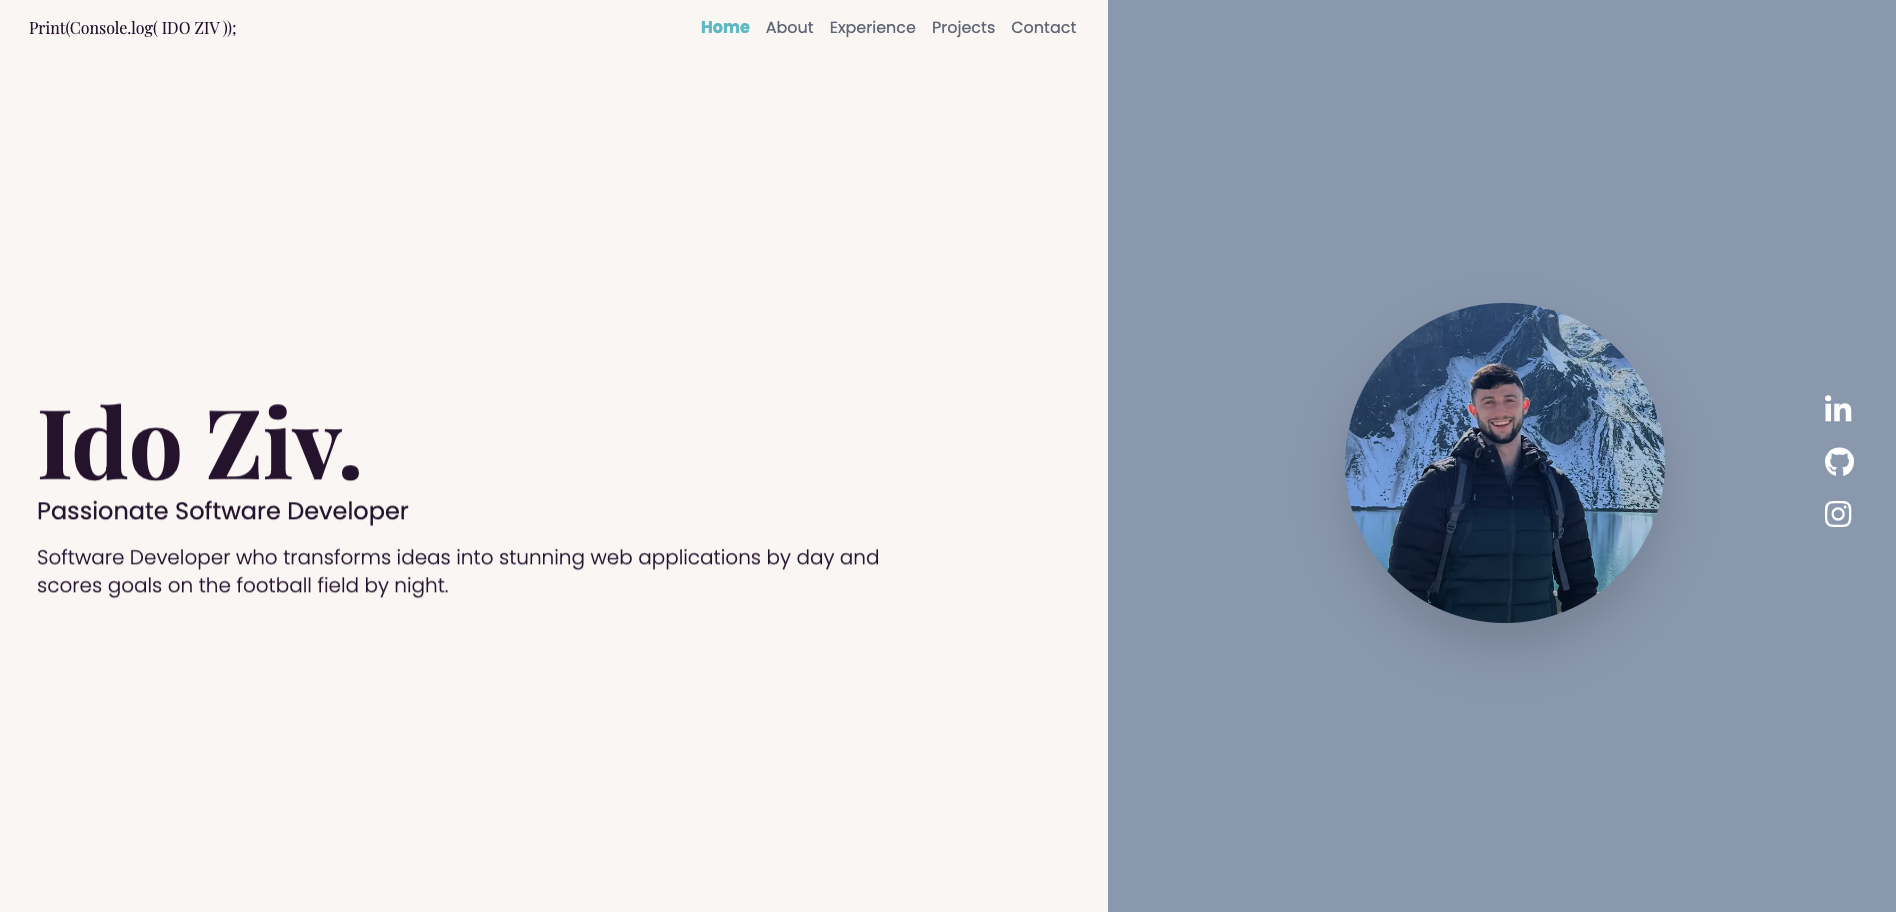
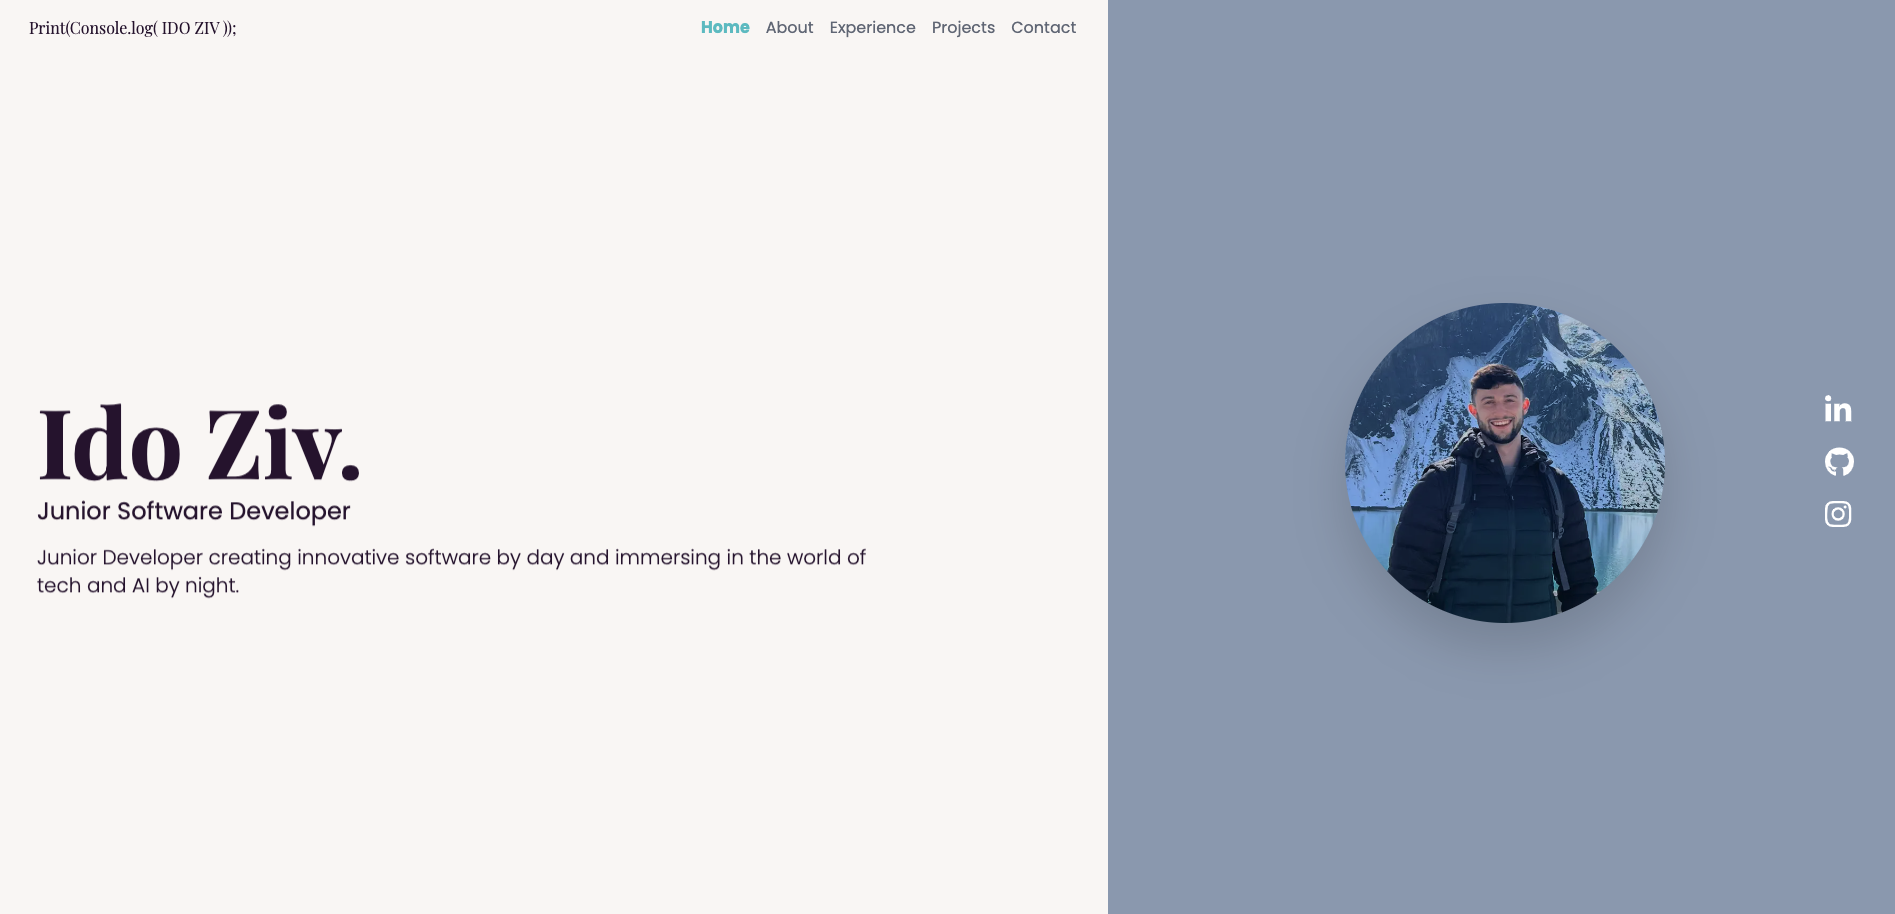
added my experiences and mail for the contact

diff --git a/utils/projects.ts b/utils/projects.ts
@@ -1,18 +1,17 @@
 export const projects = [
   {
     id: "1",
-    title: "Ligat Haal X, Interactive Grid Game",
+    title: "AOT Website",
     description:
-      "Developed a dynamic web app displaying an interactive grid of football team logos, with a player search functionality using Next.js and TailwindCSS. Integrated Prisma ORM with Azure SQL Server for database management and deployed on Vercel. Implemented server-side rendering, API routes, and cron jobs for weekly data cache updates",
+      "Took the initiative to develop and implement an interactive website (Frontend and backend) assisting the company's security team. The website facilitated streamlined work arrangement submissions, provided a platform for forums, and fulfilled various workrelated requirements.",
     tags: [
-      "Next.js",
-      "TailwindCSS",
-      "Azure Functions",
-      "Azure SQL Server",
-      "Vercel",
+      "NodeJs",
+      "JavaScript",
+      "MongoDB",
+      "HTML",
+      "CSS",
+      "Heroku",
     ],
-    url: "/projects/1",
-    youtubeUrl: "https://www.ligathaalx.com/",
     projectPage: {
       title: "Ligat Haal X, Interactive Grid",
       description:
@@ -60,40 +59,34 @@ export const projects = [
   },
   {
     id: 2,
-    title: "this website",
+    title: "Vector Classifier",
     description:
-      "Built a personal portfolio website using Next.js, Tailwind CSS, and TypeScript. Implemented SEO optimization and a responsive design",
-    tags: ["Next.js", "Tailwind CSS", "TypeScript"],
-    githubUrl: "https://github.com/yuvalysh0/portfolio",
+      "A project in C++ about vector classification using the KNN algorithm and a multithreading server-client connection.",
+    tags: ["C++", "KNN", "Algorithm"],
   },
 
   {
     id: 3,
-    title: "Startup Booster - Incharge Payment Processing System",
+    title: "Whatsapp Clone",
     description:
-      "Led the frontend development using React, integrating multiple payment methods like DTS and Multipass to enhance the payment experience.",
-    tags: ["React", "JavaScript", "NextJS"],
+      "Developed a website (MERN) and Android application for chat service like WhatsApp, using Client-Server",
+    tags: ["React", "JavaScript", "NodeJs", "SQL", "MongoDB", "AndroidStudio", "WebSockets", "Express", "MVC", "MVVM"],
+    githubUrl: "https://github.com/idoziv15/whatsapp_clone"
   },
   {
     id: 4,
-    title: "Startup Booster - Hadassah Hospital Web Platform",
+    title: "Arknoid Game",
     description:
-      "Improved user experience and accessibility by implementing responsive design and dynamic features, ensuring compliance with accessibility standards.",
-    tags: ["React", "JavaScript", "NextJS"],
+      "Developed an Arknoid game in Java, implementing design patterns and OOP principles.",
+    tags: ["Java", "OOP"],
+    githubUrl: "https://github.com/idoziv15/Arknoid_Game"
   },
   {
     id: 5,
-    title: "IronSource - Mobile Development",
+    title: "Mortgage Master",
     description:
-      'Transitioned to mobile development, mastering Unity3D, Android, and iOS. Developed an automatic release process and created the "Alpha Package" tool for easier SDK implementation and testing.',
-    tags: ["Unity3D", "Android", "iOS"],
-  },
-  {
-    id: 6,
-    title: "FriendsBook",
-    description:
-      "Developed a social app with CSS, Vue.js, Vuex, and Firebase. Created functionalities for posting, liking, commenting, and real-time updates to deliver a seamless social media experience",
-    tags: ["Vue.js", "Vuex", "Firebase"],
-    youtubeUrl: "https://www.youtube.com/watch?v=burhfu39e-U&feature=youtu.be",
+      'I developed a web system for real-estate investments in my final studies project. The platform is designed to assist users in making informed real estate investment decisions by providing comprehensive, quantitative analysis of potential property investments. The core problem the system aims to solve is helping investors compare real estate investments with other investment opportunities, such as the stock market, by offering a detailed assessment of key financial metrics of their investments.',
+    tags: ["Flask", "Python", "NumPy", "React", "MongoDB"],
+    githubUrl: "https://github.com/idoziv15/MortgageMaster"
   },
 ];

diff --git a/utils/aboutMe.ts b/utils/aboutMe.ts
@@ -1,3 +1,3 @@
 export const aboutMe = {
-  description: `Hey! 👋🏾 My name is Nate, welcome to my digital space. I'm a software engineer. I work with companies to deliver software solutions with an emphasis on frontend web development, design systems and accessibility. Currently, I work as a software engineer at Coforma improving digital processes for Centers for Medicare & Medicaid Services. I've previously worked as a frontend engineer for Accenture Federal Services building FBI Jobs and Department of Energy websites. Prior to that, I worked at RP3 Agency as a creative technologist prototyping, designing and developing websites and digital experiences. Along side helping companies build software and websites, I occassionally share my knowledge of coding and design through teaching workshops. When I'm not coding I enjoy me producing music and learning Japanese. In 2018, I started an art studio called Digital Anthro where I produce new media art and music.`
+  description: `Hey! 👋 My name is Ido, and welcome to my digital space. I’m a junior software developer, fresh out of my computer science studies. Throughout my education, I explored various fields, from AI and machine learning, to backend and fullstack development. I’m passionate about technology and excited to dive deeper into the world of software engineering. When I'm not coding, I enjoy exploring new ideas and continuing to learn. I'm looking forward to making my mark in the tech industry and contributing to exciting projects!`
 };

diff --git a/pages/api/sendEmail.ts b/pages/api/sendEmail.ts
@@ -6,6 +6,10 @@ export default async function handler(
   req: NextApiRequest,
   res: NextApiResponse,
 ) {
+  if (req.method !== 'POST') {
+    return res.status(405).json({ message: 'Only POST requests allowed' });
+  }
+
   const { name, email, message } = req.body;
 
   if (!name || !email || !message) {
@@ -14,7 +18,7 @@ export default async function handler(
 
   const transporter = nodemailer.createTransport({
     host: process.env.EMAIL_HOST,
-    port: process.env.EMAIL_PORT,
+    port: Number(process.env.EMAIL_PORT),
     secure: process.env.EMAIL_PORT === '465',
     auth: {
       user: process.env.EMAIL_USER,

diff --git a/app/components/Projects.tsx b/app/components/Projects.tsx
@@ -38,7 +38,7 @@ const Projects = () => {
                 GitHub
               </Link>
             )}
-            {project.youtubeUrl && (
+            {/* {project.youtubeUrl && (
               <Link
                 href={project.youtubeUrl}
                 target="_blank"
@@ -51,7 +51,7 @@ const Projects = () => {
               <Link href={project.url} className="btn btn-outline btn-sm">
                 View More
               </Link>
-            )}
+            )} */}
           </div>
         </div>
       ))}

diff --git a/utils/heroText.ts b/utils/heroText.ts
@@ -1,6 +1,6 @@
 export const heroText = {
   title: "Ido Ziv.",
-  subtitle: "Passionate Software Developer",
-  description: "Software Developer who transforms ideas into stunning web applications by day and scores goals on the football field by night.",
+  subtitle: "Junior Software Developer",
+  description: "Junior Developer creating innovative software by day and immersing in the world of tech and AI by night.",
 };
 

diff --git a/utils/techStack.ts b/utils/techStack.ts
@@ -2,14 +2,6 @@ import { iconName } from "@fortawesome/free-brands-svg-icons/fa42Group";
 
 export const techStack = [
   {
-    iconName: "html5",
-    name: "HTML",
-  },
-  {
-    iconName: "css3-alt",
-    name: "CSS",
-  },
-  {
     iconName: "js-square",
     name: "Javascript",
   },
